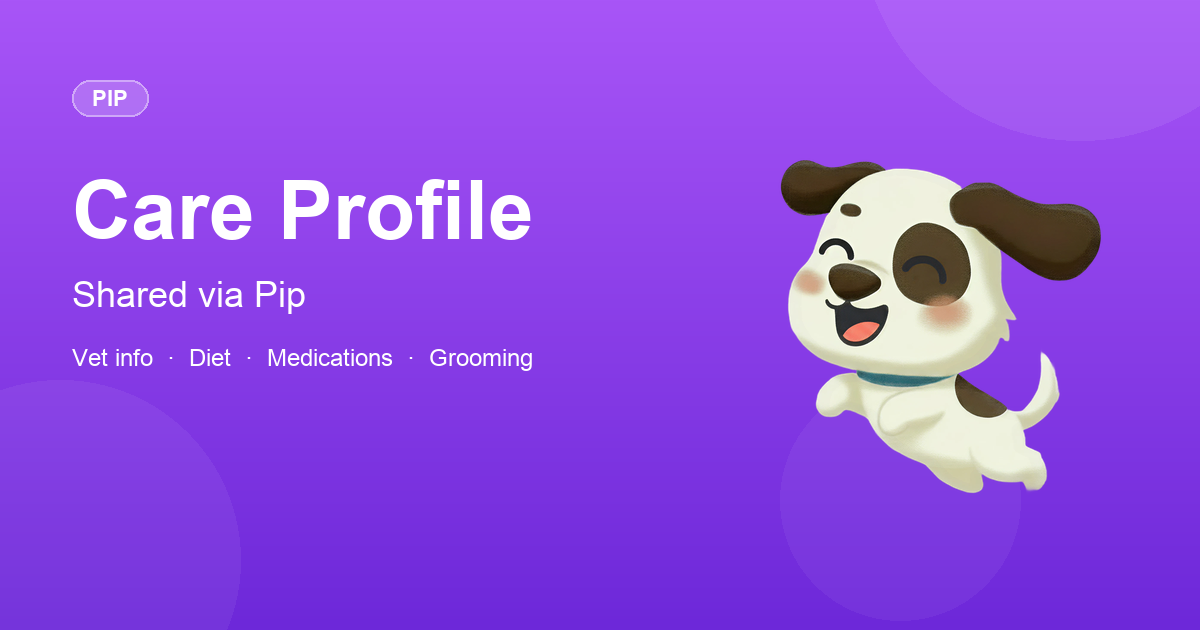
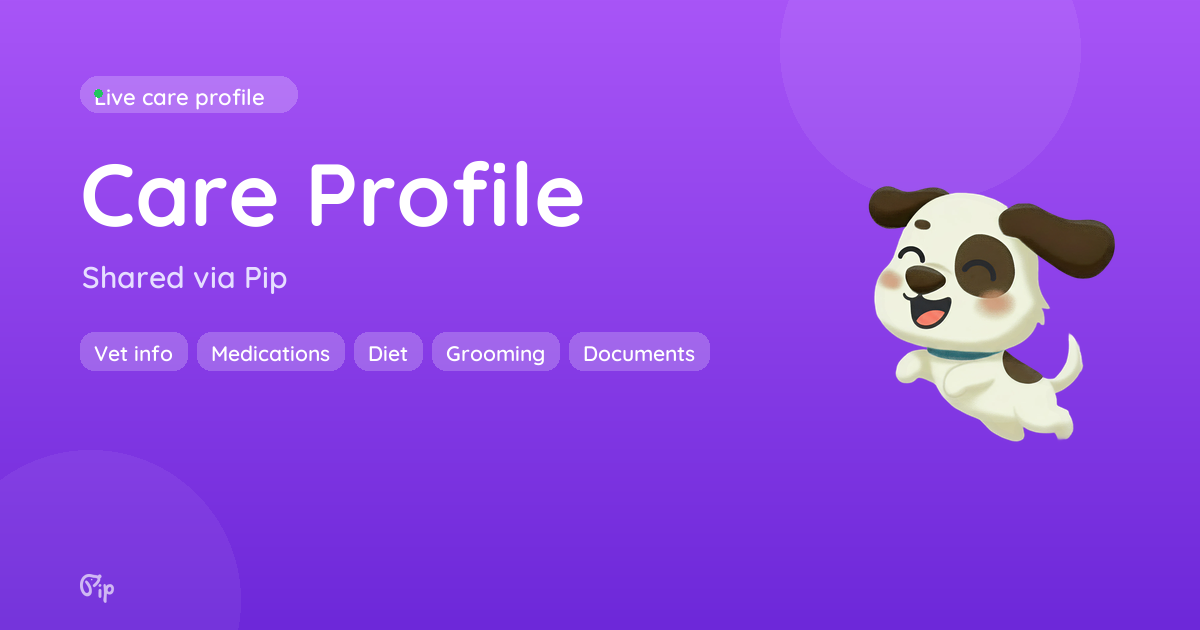
New OG image: purple gradient, Quicksand, tags, Pip mascot

diff --git a/og-template.html b/og-template.html
@@ -1,0 +1,52 @@
+<!DOCTYPE html>
+<html>
+<head>
+<meta charset="UTF-8">
+<style>
+*{margin:0;padding:0;box-sizing:border-box}
+html,body{margin:0;padding:0;width:1200px;min-height:630px;background:linear-gradient(135deg,#A855F7 0%,#8B3FD9 35%,#7C3AED 60%,#6D28D9 100%)}
+.wrap{width:1200px;min-height:630px;font-family:'Quicksand',sans-serif;background:transparent;display:flex;align-items:center;justify-content:space-between;padding:0 80px;position:relative;overflow:hidden}
+/* Subtle orbs */
+.wrap::before{content:'';position:absolute;top:-80px;right:280px;width:340px;height:340px;border-radius:50%;background:rgba(255,255,255,.06)}
+.wrap::after{content:'';position:absolute;bottom:-100px;left:-60px;width:280px;height:280px;border-radius:50%;background:rgba(255,255,255,.05)}
+/* Left content */
+.left{flex:1;z-index:1}
+.badge{display:inline-flex;align-items:center;gap:8px;background:rgba(255,255,255,.15);border:1px solid rgba(255,255,255,.25);border-radius:24px;padding:8px 18px;margin-bottom:28px}
+.badge-dot{width:8px;height:8px;background:#22C55E;border-radius:50%}
+.badge-text{font-size:16px;font-weight:600;color:rgba(255,255,255,.9);letter-spacing:.3px}
+.title{font-size:72px;font-weight:700;color:#fff;line-height:1.05;letter-spacing:-2px;margin-bottom:16px}
+.subtitle{font-size:24px;font-weight:600;color:rgba(255,255,255,.75);margin-bottom:32px}
+.sections{display:flex;gap:10px;flex-wrap:wrap}
+.tag{background:rgba(255,255,255,.12);border:1px solid rgba(255,255,255,.2);border-radius:20px;padding:8px 16px;font-size:15px;font-weight:600;color:rgba(255,255,255,.85)}
+/* Right — mascot */
+.right{width:340px;display:flex;align-items:center;justify-content:center;z-index:1;flex-shrink:0}
+.right img{width:300px;height:300px;object-fit:contain;filter:drop-shadow(0 12px 40px rgba(0,0,0,.25))}
+/* Bottom brand */
+.brand{position:absolute;bottom:36px;left:80px;display:flex;align-items:center;gap:10px;z-index:1}
+.brand img{height:28px;width:auto;filter:brightness(0) invert(1);opacity:.7}
+</style>
+<link href="https://fonts.googleapis.com/css2?family=Quicksand:wght@600;700&display=swap" rel="stylesheet">
+</head>
+<body>
+<div class="wrap">
+<div class="left">
+  <div class="badge"><span class="badge-dot"></span><span class="badge-text">Live care profile</span></div>
+  <div class="title">Care Profile</div>
+  <div class="subtitle">Shared via Pip</div>
+  <div class="sections">
+    <span class="tag">🏥 Vet info</span>
+    <span class="tag">💊 Medications</span>
+    <span class="tag">🍽 Diet</span>
+    <span class="tag">✂ Grooming</span>
+    <span class="tag">📄 Documents</span>
+  </div>
+</div>
+<div class="right">
+  <img src="pip-jumping.png" alt="Pip">
+</div>
+<div class="brand">
+  <img src="pip-logo-white.png" alt="Pip">
+</div>
+</div>
+</body>
+</html>
